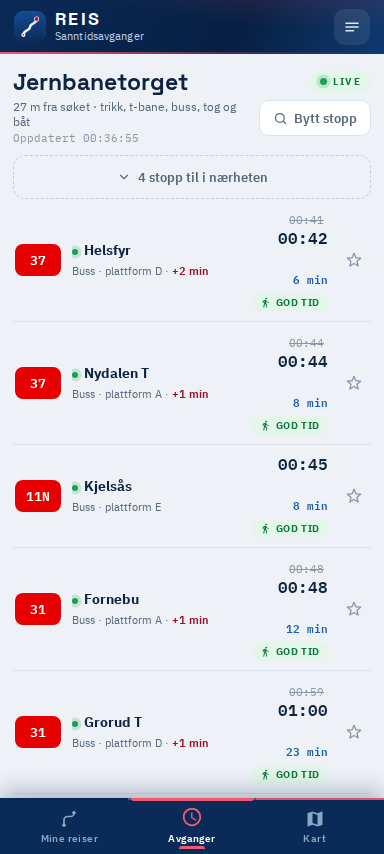
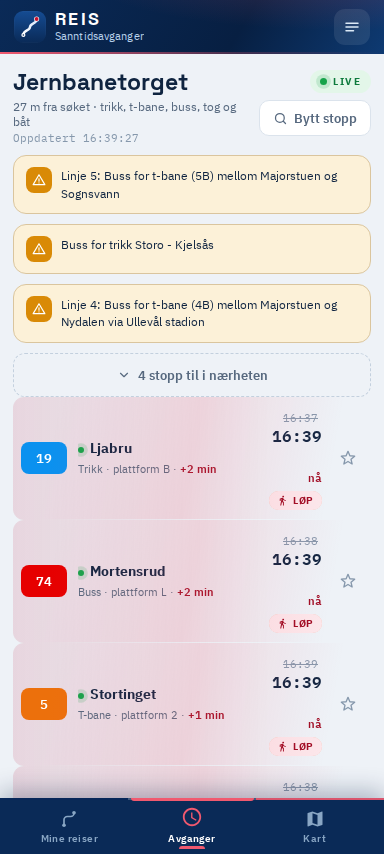
Add files via upload

diff --git a/index.html b/index.html
@@ -873,6 +873,42 @@ a{color:inherit}
 .ptr.ready .ptr-ring{border-top-color:var(--green);border-color:var(--green-soft)}
 .ptr.spin .ptr-ring{animation:snurr .8s linear infinite}
 @keyframes snurr{to{transform:rotate(360deg)}}
+/* Tidsrekken: klokkeslag til venstre, linje i midten, mål til høyre. Fargen
+   er linjens egen, og den går igjen både i merket og i den loddrette streken. */
+/* Kjeden: merke – pil – merke. Pilen betyr bytte når begge sider er kjøretøy. */
+.kjede{display:inline-flex;align-items:center;gap:4px;flex-wrap:wrap}
+.kj-pil{flex:none;width:9px;height:9px;position:relative}
+.kj-pil::before{content:"";position:absolute;left:0;top:50%;width:9px;height:1.5px;
+  margin-top:-.75px;background:var(--line-2)}
+.kj-pil::after{content:"";position:absolute;right:0;top:50%;width:4px;height:4px;
+  margin-top:-2px;border-top:1.5px solid var(--line-2);border-right:1.5px solid var(--line-2);
+  transform:rotate(45deg) translate(-1px,1px)}
+.kj-gange{flex:none;display:grid;place-items:center;width:20px;height:20px;border-radius:6px;
+  background:var(--paper);color:var(--muted)}
+.kj-gange svg{width:12px;height:12px;display:block}
+.kj-mer{flex:none;font-family:var(--font-m);font-size:10px;color:var(--faint);padding-left:2px}
+.kj-bytt{flex:none;margin-left:4px;font-size:9.5px;font-weight:700;letter-spacing:.05em;
+  text-transform:uppercase;color:var(--amber-txt);background:var(--amber-soft,rgba(217,138,6,.14));
+  padding:2px 6px;border-radius:6px;font-style:normal}
+.nb-time{display:flex;flex-direction:column;margin-top:8px}
+.nb-row{position:relative;display:flex;align-items:center;gap:10px;width:100%;min-height:52px;
+  padding:6px 8px 6px 0;text-align:left;background:none;border:none;border-radius:11px;
+  transition:background .18s}
+.nb-row:hover{background:var(--paper)}
+.nb-tid{flex:none;width:52px;text-align:right;font-family:var(--font-m);font-size:12.5px;
+  font-weight:700;color:var(--ink)}
+.nb-row.due .nb-tid{color:var(--green-txt)}
+.nb-strek{flex:none;width:3px;align-self:stretch;border-radius:2px;background:var(--mc);opacity:.85;margin:4px 0}
+.nb-linje{flex:none;display:flex;flex-direction:column;align-items:flex-start;gap:2px;width:66px}
+.nb-mode{font-size:9.5px;font-weight:700;letter-spacing:.06em;text-transform:uppercase;color:var(--faint)}
+.nb-mål{flex:1;min-width:0;display:flex;flex-direction:column;gap:1px}
+.nb-mål b{font-size:13.5px;white-space:nowrap;overflow:hidden;text-overflow:ellipsis}
+.nb-mål span{font-size:11px;color:var(--muted);white-space:nowrap;overflow:hidden;text-overflow:ellipsis}
+/* Bytt mellom tidsrekke og gruppering per stopp */
+.nb-switch{display:flex;gap:4px;margin-top:6px;background:var(--paper);border-radius:11px;padding:4px}
+.nb-switch button{flex:1;min-height:36px;border-radius:8px;font-size:12px;font-weight:600;
+  color:var(--muted);background:none;transition:background .2s,color .2s}
+.nb-switch button.on{background:var(--card);color:var(--ink);box-shadow:var(--sh-1)}
 .near-toggle{display:flex;align-items:center;justify-content:center;gap:7px;width:100%;min-height:44px;
   margin-top:10px;border-radius:12px;background:none;border:1.5px dashed var(--line-2);
   font-size:12.5px;font-weight:600;color:var(--muted);transition:color .2s,border-color .2s,background .2s}
@@ -1854,7 +1890,9 @@ document.addEventListener('touchend',e=>{
 document.addEventListener('keydown',e=>{if(e.key==='Escape'){closeModal();closeWakeFlash();if(typeof closeMore==='function'&&!$('#moreSheet').hidden)closeMore();
   if(typeof lukkKartsøk==='function')lukkKartsøk()}});
 
-const MODE={foot:{l:'Gange',hex:'#64748B'},tram:{l:'Trikk',hex:'#0B87C7'},metro:{l:'T-bane',hex:'#E8590C'},bus:{l:'Buss',hex:'#C2255C'},rail:{l:'Tog',hex:'#3457D5'},water:{l:'Båt',hex:'#0C8599'},coach:{l:'Ekspress',hex:'#8447C9'},air:{l:'Fly',hex:'#5C6B7A'},funicular:{l:'Bane',hex:'#5C6B7A'},lift:{l:'Gondol',hex:'#5C6B7A'},cableway:{l:'Kabelbane',hex:'#5C6B7A'},trolleybus:{l:'Buss',hex:'#C2255C'},monorail:{l:'Bane',hex:'#5C6B7A'},taxi:{l:'Taxi',hex:'#8A8F98'}};
+/* Fargene følger norsk konvensjon: trikk blå, buss rød, T-bane oransje, tog
+   mørkeblå, båt turkis. Har linjen sin egen farge fra Entur, vinner den. */
+const MODE={foot:{l:'Gange',hex:'#64748B'},tram:{l:'Trikk',hex:'#0B91EF'},metro:{l:'T-bane',hex:'#EC700C'},bus:{l:'Buss',hex:'#E4002B'},rail:{l:'Tog',hex:'#3457D5'},water:{l:'Båt',hex:'#0C8599'},coach:{l:'Ekspress',hex:'#8447C9'},air:{l:'Fly',hex:'#5C6B7A'},funicular:{l:'Bane',hex:'#5C6B7A'},lift:{l:'Gondol',hex:'#5C6B7A'},cableway:{l:'Kabelbane',hex:'#5C6B7A'},trolleybus:{l:'Buss',hex:'#C2255C'},monorail:{l:'Bane',hex:'#5C6B7A'},taxi:{l:'Taxi',hex:'#8A8F98'}};
 const modeOf=leg=>{const m=(leg.line&&leg.line.transportMode)||leg.mode;return MODE[m]?m:'foot'};
 const STREET={car:{hex:'#1D6FEB',dash:null,l:'Bil'},bike:{hex:'#B02A37',dash:'12 9',l:'Sykkel'},foot:{hex:'#0E7A3D',dash:'2 9',l:'Gå'}};
 
@@ -1880,7 +1918,7 @@ if(matchMedia('(prefers-color-scheme: dark)').addEventListener)matchMedia('(pref
    allerede åpen side beholder gammel HTML og JS selv om en ny service worker
    er installert. Nå oppdages det, og du får velge når. */
 /* Denne må holdes lik VERSION i sw.js. Byggeskriptet sjekker at de stemmer. */
-const APP_VERSION='v7.5.0';
+const APP_VERSION='v7.6.0';
 let swReg=null,waitingSW=null,reloading=false,byttetSelv=false;
 
 /* Service worker-livssyklusen er lunefull: en ny versjon kan bli hengende i
@@ -3057,7 +3095,7 @@ function nearbyAskHTML(){
     <button class="chip-btn" id="nearAsk">Vis</button></div>`;
 }
 function nearbyCardHTML(s2,i){
-  const calls=(s2.calls||[]).slice(0,3).map(c=>{
+  const calls=(s2.calls||[]).slice(0,3).map(c=>{   // kortet viser tre
     const mm=MODE[c.mode]||MODE.bus;const hex=c.colour?('#'+c.colour):mm.hex;
     const diff=c.t-now();
     const when=diff<=45000?'nå':(diff<3600000?Math.max(1,Math.round(diff/60000))+' min':fmtTime(c.t));
@@ -3081,6 +3119,44 @@ function nearbyCardHTML(s2,i){
     <div class="nc-lines">${calls||'<span class="nc-dest">Ingen avganger den neste timen</span>'}</div>
   </button>`;
 }
+/* «Hva går rundt meg, og når?» besvares dårlig av fire lister gruppert per
+   stopp – da må du selv sammenligne klokkeslett på tvers. Denne visningen
+   slår dem sammen til ÉN tidsrekke: neste avgang først, uansett hvilket stopp
+   den går fra. */
+let nærhetsVisning=loadLS('nearbyView','tid');
+function nærhetTidslinjeHTML(){
+  const alle=[];
+  nearbyStops.forEach(s2=>(s2.calls||[]).forEach(c=>alle.push({...c,stopp:s2.name,dist:s2.dist})));
+  alle.sort((a,b)=>a.t-b.t);
+  /* Samme linje mot samme sted fire ganger på rad er ikke informasjon. Behold
+     den første av hver linje+retning – da ser du BREDDEN i tilbudet rundt deg,
+     ikke bare den ene bussen som går ofte. */
+  const sett=new Set(),liste=[];
+  for(const c of alle){
+    const nøkkel=(c.code||'')+'→'+(c.dest||'');
+    if(sett.has(nøkkel))continue;
+    sett.add(nøkkel);liste.push(c);
+    if(liste.length>=10)break;
+  }
+  if(!liste.length)return '<p class="hint" style="margin:8px 2px 0">Ingen avganger den neste timen.</p>';
+  let forrige=null;
+  return `<div class="nb-time">`+liste.map(c=>{
+    const mm=MODE[c.mode]||MODE.bus;
+    const hex=c.colour?('#'+c.colour):mm.hex;
+    const diff=c.t-now();
+    const nå=diff<=45000;
+    /* Skillelinje når vi går over til et nytt stoppested i rekken. */
+    const nyttStopp=c.stopp!==forrige;forrige=c.stopp;
+    return `<button class="nb-row${nå?' due':''}" data-stopp="${esc(c.stopp)}" style="--mc:${esc(hex)}">
+      <span class="nb-tid" data-ts="${+c.t}">${countdownHTML(diff,+c.t).replace(/<[^>]+>/g,'')}</span>
+      <span class="nb-strek"></span>
+      <span class="nb-linje"><i class="leg-badge" style="background:${esc(hex)}">${esc(c.code)}</i>
+        <span class="nb-mode">${esc(mm.l)}</span></span>
+      <span class="nb-mål"><b>${esc(c.dest)}</b>
+        <span>${nyttStopp?'fra ':''}${esc(c.stopp)} · ${fmtWalk(c.dist)}</span></span>
+    </button>`;
+  }).join('')+`</div>`;
+}
 function renderNearby(){
   const box=$('#nearby');if(!box)return;
   if(!state.userPos&&!nearbyStops.length){box.innerHTML=nearbyAskHTML();
@@ -3090,7 +3166,21 @@ function renderNearby(){
     $('#nearbyTag').hidden=true;return}
   if(!nearbyStops.length){box.innerHTML='<div class="skel" style="height:64px;margin-top:8px"></div>'.repeat(3);return}
   $('#nearbyTag').hidden=false;
-  box.innerHTML=nearbyStops.map(nearbyCardHTML).join('');
+  const bytter=`<div class="nb-switch" role="tablist">
+      <button data-v="tid"${nærhetsVisning==='tid'?' class="on"':''}>Når det går</button>
+      <button data-v="stopp"${nærhetsVisning==='stopp'?' class="on"':''}>Per stoppested</button>
+    </div>`;
+  box.innerHTML=bytter+(nærhetsVisning==='tid'
+    ? nærhetTidslinjeHTML()
+    : nearbyStops.map(nearbyCardHTML).join(''));
+  box.querySelectorAll('.nb-switch button').forEach(b=>b.onclick=()=>{
+    nærhetsVisning=b.dataset.v;saveLS('nearbyView',nærhetsVisning);renderNearby();
+  });
+  /* Trykk på en avgang → åpne tavla for det stoppet den går fra. */
+  box.querySelectorAll('.nb-row').forEach(r=>r.onclick=()=>{
+    const st=nearbyStops.find(x=>x.name===r.dataset.stopp);
+    if(st){switchTab('depart');selectDepartStop(st)}
+  });
   box.querySelectorAll('.near-card').forEach(c=>c.onclick=()=>{
     const st=nearbyStops[+c.dataset.i];if(!st)return;
     $('#depChips').innerHTML=`<button class="stop-chip on">${esc(st.name)}<span>${Math.round(st.dist)} m</span></button>`;
@@ -3121,10 +3211,15 @@ async function loadNearby(force){
   try{
     /* maximumResults teller plattformer FØR multiModalMode grupperer dem –
        n=4 ga ETT stoppested. Over-etterspør og kutt i visningen i stedet. */
-    const d=await enturGQL(NEARBY_Q,{lat:p.lat,lon:p.lon,r:1300,n:40,dep:3});
+    /* Flere avganger per stopp, ellers ser tidsrekken bare den bussen som går
+       oftest – trikk og T-bane faller utenfor. */
+    const d=await enturGQL(NEARBY_Q,{lat:p.lat,lon:p.lon,r:1300,n:40,dep:8});
     nearbyStops=((d.nearest&&d.nearest.edges)||[]).filter(e=>e.node&&e.node.place&&e.node.place.id).map(e=>{
       const pl=e.node.place;
-      const calls=mapCalls(pl).filter(c=>!c.cancelled&&c.t-now()>-60000).slice(0,3);
+      /* Kappet vi til tre her, ville tidsrekken bare sett den bussen som går
+         oftest fra hvert stopp – trikk og T-bane forsvant før de var vurdert.
+         Kortvisningen kutter selv til tre; tidsrekken trenger alle. */
+      const calls=mapCalls(pl).filter(c=>!c.cancelled&&c.t-now()>-60000);
       return {id:pl.id,name:pl.name,lat:pl.latitude,lon:pl.longitude,dist:e.node.distance,calls};
     }).filter(s2=>s2.calls.length).slice(0,4);   // stopp uten avganger hjelper ingen
     nearbyAt=Date.now();
@@ -3275,6 +3370,24 @@ async function loadQuickLive(force){
 }
 const qtKey=x=>`${x.from.n}>${x.to.n}`;
 
+/* Hendelsesforløpet i kortform: hver etappe som et merke, med pil imellom.
+   Er det mer enn ett kjøretøy, betyr pilen et bytte. */
+function kjedeHTML(legs,maks=4){
+  if(!legs||!legs.length)return '';
+  const vis=legs.slice(0,maks);
+  const deler=vis.map(l=>{
+    const mm=MODE[l.mode]||MODE.bus;
+    const hex=l.colour?('#'+l.colour):mm.hex;
+    if(l.mode==='foot')return `<i class="kj-gange" title="Gange">${IC.walk}</i>`;
+    return `<i class="leg-badge" style="background:${esc(hex)}" title="${esc(mm.l)} ${esc(l.code)}">${esc(l.code)}</i>`;
+  });
+  const kjede=deler.join('<i class="kj-pil" aria-hidden="true"></i>');
+  const bytter=vis.filter(l=>l.mode!=='foot').length-1;
+  return `<span class="kjede" aria-label="${
+      vis.map(l=>l.mode==='foot'?'gange':((MODE[l.mode]||MODE.bus).l+' '+(l.code||''))).join(', deretter ')
+    }">${kjede}${legs.length>maks?'<i class="kj-mer">+'+(legs.length-maks)+'</i>':''}`+
+    `${bytter>0?`<i class="kj-bytt">${bytter} bytte${bytter>1?'r':''}</i>`:''}</span>`;
+}
 function renderQuickTrips(){
   const box=$('#quickTrips');if(!box)return;
   const list=quickTrips();
@@ -3284,9 +3397,9 @@ function renderQuickTrips(){
     if(live){
       const diff=live.t-now();
       const when=diff<=45000?'nå':(diff<3600000?'om '+Math.max(1,Math.round(diff/60000))+' min':fmtTime(live.t));
-      const badges=live.legs.slice(0,3).map(l=>{
-        const mm=MODE[l.mode]||MODE.bus;const hex=l.colour?('#'+l.colour):mm.hex;
-        return `<i class="leg-badge" style="background:${esc(hex)}">${esc(l.code)}</i>`}).join('');
+      /* Bare linjemerkene sa ingenting om at du må BYTTE. Nå vises kjeden med
+         en pil mellom hver etappe, så «trikk 13 → buss 31» er tydelig. */
+      const badges=kjedeHTML(live.legs);
       liveHTML=`${badges||''}<span class="qt-when${diff<=45000?' due':''}">${when}</span>`+
                `<span style="color:var(--faint)">· ${fmtDur(live.dur)}</span>`;
     }

diff --git a/sw.js b/sw.js
@@ -5,7 +5,7 @@
      kartfliser → cache-first med tak på antall fliser
      API-er     → network-first med cachet fallback (tunnel/dårlig dekning)
 */
-const VERSION = 'v7.5.0';
+const VERSION = 'v7.6.0';
 const SHELL_CACHE = `reis-shell-${VERSION}`;
 const TILE_CACHE = `reis-tiles-${VERSION}`;
 const DATA_CACHE = `reis-data-${VERSION}`;

diff --git a/ENDRINGER.md b/ENDRINGER.md
@@ -2,7 +2,7 @@
 
 Alt under er verifisert mot Entur live 31. juli 2026, ikke gjettet.
 `node test-live.js` kjører appens egne spørringer mot API-et (15 tester),
-`node test-dom.js` tester grensesnitt og logikk i jsdom (292 tester),
+`node test-dom.js` tester grensesnitt og logikk i jsdom (297 tester),
 `python3 shot.py`, `measure.py`, `swipe_test.py`, `fill_test.py`, `qt_test.py`,
 `sec_test.py`, `overlap_test.py`, `perf_test.py`, `font_test.py`, `a11y.py` og
 `polish_test.py`, `plan_test.py`, `soak.py`, `regress_map.py` og `update_test.py`
@@ -164,6 +164,45 @@ Nå:
 
 Testen booter appen i jsdom **uten** Leaflet i det hele tatt og bekrefter at den
 starter, at Plan-fanen tegnes, og at alle kartfunksjonene har vakt.
+
+---
+
+## «Hva går rundt meg, og når?»
+
+Med posisjonen på, men uten å søke, viser «I nærheten» nå **én tidsrekke** på
+tvers av alle stoppestedene rundt deg – neste avgang først, uansett hvor den går
+fra:
+
+```
+nå      Trikk 12   → Majorstuen      fra Dronningens gate
+nå      Buss 34    → Tåsen           fra Jernbanetorget
+1 min   T-bane 5   → Vestli          fra Jernbanetorget
+```
+
+Klokkeslag til venstre, en loddrett strek i **linjens egen farge**, linjenummer
+og transportmiddel i midten, mål og stoppested til høyre. Trykk på en rad for å
+åpne tavla for det stoppet. Du kan fortsatt bytte til gruppering per stoppested,
+og valget huskes.
+
+**Samme linje mot samme sted vises bare én gang.** Fire avganger med buss 37 er
+ikke informasjon – du vil se *bredden* i tilbudet rundt deg.
+
+### Fargene følger norsk konvensjon
+Trikk **blå** (#0B91EF), buss **rød** (#E4002B), T-bane **oransje** (#EC700C),
+tog mørkeblå, båt turkis. Oppgir Entur linjens egen farge, vinner den.
+
+### Bytter vises som et hendelsesforløp
+Reisekortene viste bare løse linjemerker, som ikke sa noe om at du måtte bytte.
+Nå er det en kjede med pil mellom hver etappe, og et merke som sier hvor mange
+bytter det er: **🚶 → 13 → 31 → 🚶 · 1 bytte**. For skjermleser leses den som
+«gange, deretter Trikk 13, deretter Buss 31, deretter gange».
+
+> **Tidsrekken viste bare buss i første forsøk.** Det gikk 78 trikkavganger og
+> 21 T-baneavganger i området på det tidspunktet. Årsaken lå ett hakk tidligere:
+> avgangene ble kappet til **tre per stoppested** før tidsrekken ble bygget, så
+> bare den bussen som går oftest fra hvert stopp kom videre. Kortvisningen kutter
+> selv til tre – tidsrekken trenger alle. Etter rettelsen: trikk, T-bane og buss,
+> med tre ulike farger.
 
 ---
 
